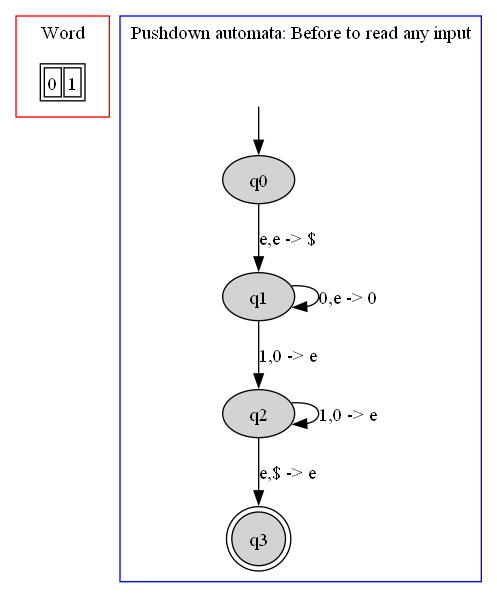
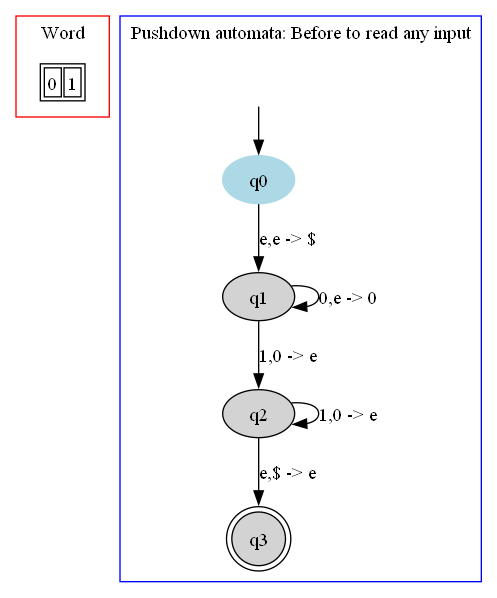
Melhorando o desenho

Changed region(s): [[0.4527, 0.2408, 0.6036, 0.3612]]

diff --git a/PA/automataexecution.cpp b/PA/automataexecution.cpp
@@ -20,6 +20,7 @@ bool AutomataExecution::process_word(const std::string &word)
 {
     reset_indexes();
     this->word = word;
+    this->current_state = this->automataInstance.start_state;
 
     draw_automata_considering_input("Before to read any input");
 
